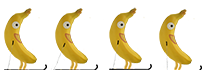
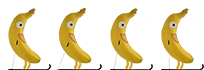
Commit

Changed region(s): [[0.0, 0.1143, 0.5, 1.0], [0.7647, 0.1143, 1.0, 1.0], [0.5294, 0.1143, 0.7647, 1.0]]

diff --git a/personnage.js b/personnage.js
@@ -9,13 +9,14 @@ Q.animations('orangeSP', {
 	
 	Q.Sprite.extend("Orange",{
         init: function(p){
-    	    this._super(p, {x: 200, y: 100, jumpSpeed: -400, lives: 2, sheet: "orange", sprite: "orangeSP",});
+    	    this._super(p, {x: 200, y: 100, jumpSpeed: -400, lives: 2, sheet: "orange", sprite: "orangeSP"});
     	    this.add("2d, platformerControls, animation"); 
     	    this.p.timeInvincible = 0;
 			this.p.sol = 0;
 			this.p.first = 1;
 			this.p.changeMusic = false;
 			this.p.tut3 = false;
+			this.p.tut4 = false;
 			
 			this.p.maintenant = new Date();
 			this.p.minute = 0;
@@ -130,22 +131,24 @@ Q.animations('orangeSP', {
 				Q.stageScene("tut3",2);
 			}
 			
-			if(this.p.x> 100 && this.p.y>1700){
+			if(this.p.x> 100 && this.p.y>1700 && !this.p.tut4){
 				Q.stageScene("tut4",2);
 			}
 			
 			
 		// Tutoriel
-		if(this.p.x >= 700 && this.p.x <= 800){
+		if(this.p.x >= 700 && this.p.x <= 730){
 			Q.stageScene('Blanc',2);
 		}
 		
-		if(this.p.x >= 1500 && this.p.x <= 1600){
+		if(this.p.x >= 1500 && this.p.x <= 1600 && this.p.y >500 && !this.p.tut3){
 			Q.stageScene('Blanc',2);
+			this.p.tut3 = true;
 		}
 		
-		if(this.p.x >= 700 && this.p.y >= 1700){
+		if(this.p.x >= 700 && this.p.y >= 1700 && !this.p.tut4){
 			Q.stageScene('Blanc',2);
+			this.p.tut4 = true;
 		}
         },
 		
@@ -280,10 +283,14 @@ Q.animations('orangeSP', {
 
 
 // ------------------------------------------------------------------------------------------------------------------
+Q.animations('bananeSP', {
+		run: {frames:[0,1,2,3], rate: 1/3}
+});
+
 	Q.Sprite.extend("Banane",{
         init: function(p){
-       		this._super(p, { asset: "banane.png", x: 1505, y: 1085, jumpSpeed: -530, lives: 3});
-        	this.add("2d, platformerControls"); 
+       		this._super(p, {sheet: "banane", sprite: "bananeSP", x: 1505, y: 1085, jumpSpeed: -530, lives: 3});
+        	this.add("2d, platformerControls, animation"); 
         	this.p.timeInvincible = 0;
 			this.p.sol = 0; 	 // Retiens le dernier cube
 			this.p.first = 1; 	 // Premier cube touché -> 0 (évite bug)
@@ -295,6 +302,7 @@ Q.animations('orangeSP', {
 			this.p.date_prec = this.p.maintenant;
    			this.p.secondeabs = 0; 
 			this.on("bump.bottom",this,"stomp");
+			this.play("run");
         },
 
 		stomp: function(collision) {

diff --git a/ennemis.js b/ennemis.js
@@ -53,7 +53,7 @@
 	//Comportement des ennemmies qui tirent
 	Q.Sprite.extend("DrawEnnemy", {
         init: function(p) {
-            this._super(p,  {gravity : 2, asset : "ennemi.png"});
+            this._super(p,  {gravity : 1, asset : "ennemi.png"});
 			this.coox = p.coox;
 			this.cooy = p.cooy;
 			this.add("2d, animation");
@@ -68,12 +68,12 @@
       },
 	  
 
-		update: function(dt) {		
+		/*update: function(dt) {		
 				if(this.p.y != 720){
-					if(this.frame_number() % 50 == 0){
+					if(this.frame_number % 50 == 0){
 						balle = new Q.Bullet({x: this.coox, y : this.cooy, vx :175, rangeX : 550 ,asset : "bullet.png"});
 						Q.stage().insert(balle);
-						frame_number() = 0;
+						this.frame_number = 0;
 					}
 					}
 			this.on("bump.top,bump.bottom,bump.right", function(collision) {
@@ -84,7 +84,7 @@
 					Q.stage().locate(1505, 1225).destroy();
 				}
             });	
-		}
+		}*/
     });
 	
 //Comportement for common enemy behaviors

diff --git a/index.html b/index.html
@@ -83,7 +83,7 @@
 			"boule.png", "cage.png", "ennemi.png", "grenade.png",
 			
 			"pastequeSP.png", "bananeSP.png", "orangeSP.png",
-			"sprite.json", "spriteO.json",
+			"sprite.json", "spriteO.json", "spriteB.json",
 			
 			"Lvl1.tmx", "Lvl2.tmx", "Lvl3.tmx", "Lvl4.tmx", "Lvl5.tmx", "men.tmx",
 			
@@ -97,8 +97,8 @@
 			Q.sheet("tiles","tiles_map.png", {tilew: 70, tileh: 70});  
 			Q.sheet("tilesmenu","htmltiles.jpg", {tilew: 70, tileh: 70}); 
 			Q.compileSheets("pastequeSP.png","sprite.json");
-			Q.compileSheets("orangeSP.png","spriteO.json");
-			//Q.compileSheets("bananeSP.png", "spriteB.json");
+			Q.compileSheets("orangeSP.png", "spriteO.json");
+			Q.compileSheets("bananeSP.png", "spriteB.json");
 			//Q.compileSheets("fraiseSP.png", "spriteF.json");
 			//Q.compileSheets("ananasSP.png", "spriteA.json");
 			

diff --git a/lvl1.js b/lvl1.js
@@ -124,24 +124,5 @@ Q.scene("level1",function(stage) {
 	stage.loadAssets(levelAssets);  
 
     stage.add("viewport").follow(player,{x: true, y: true},{minX: 0, maxX: background.p.w, minY: 0, maxY: background.p.h});
-	
-/*	setTimeout(function() {	
-		document.getElementById("Jquery").innerHTML =  "Level 1";
-				
-		var $canvas = $('#Jquery'); 
-		$canvas.drawText({
-			fillStyle: '#9cf',
-			strokeStyle: '#25a',
-			strokeWidth: 2,
-			x: 300, y: 50,
-			fontSize: 48,
-			fontFamily: 'Verdana, sans-serif',
-			text: 'Level 1'
-		});			
-				
-	}, 2000);
-		
-	Canvas.SetZIndex(image1, 2);
-*/
 		   
 });
